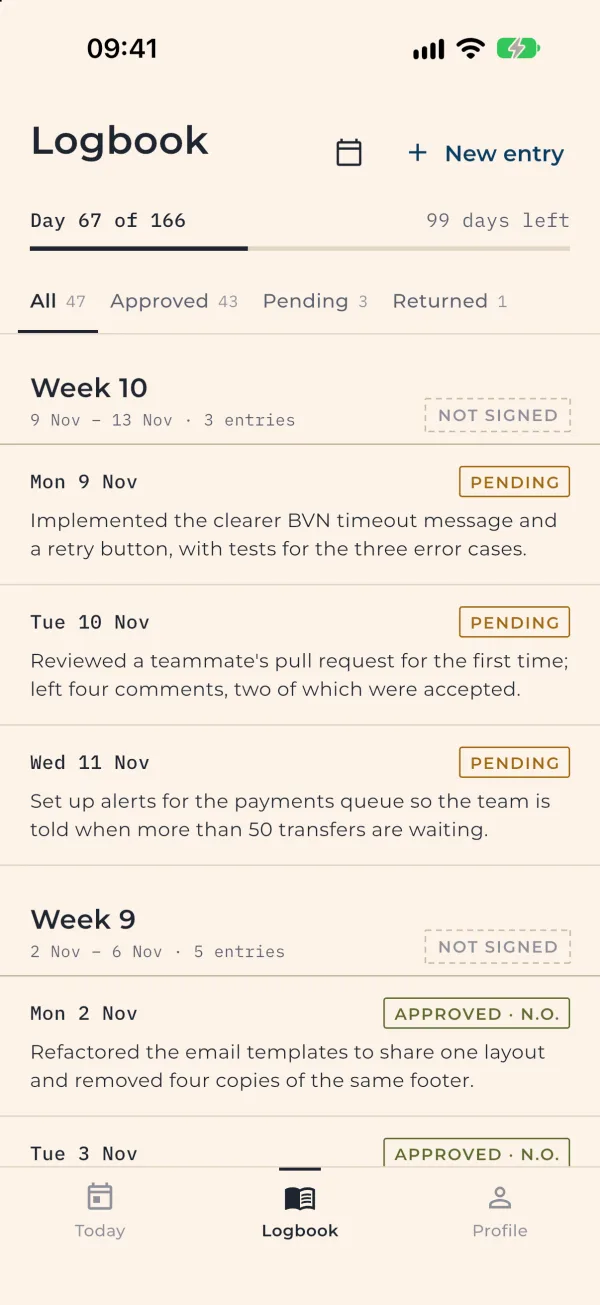
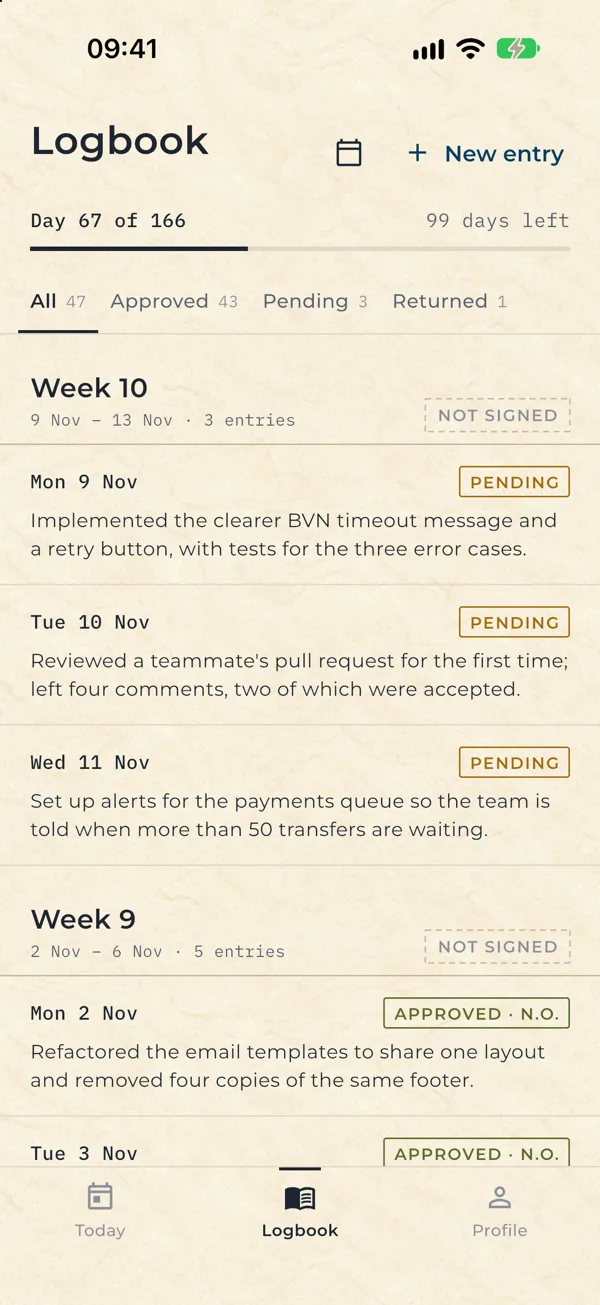
Draw every page on handmade paper
The flat cream background read too much like Lodgix. Pages now sit on the
same handmade paper texture as mofiyinebo.com, tiled at its own size.

- Each route wraps its page in OnPaper, so a page sliding in covers the
  one under it. The theme's page transitions do this for MaterialPageRoute,
  and the hand-built PageRouteBuilder routes wrap their pages themselves.
- Scaffolds and app bars are transparent, with dark status bar icons.
- The bottom bar and pinned bottom actions show the paper through; bottom
  sheets are drawn on it too.
- Palette.paper is now the texture's average colour, for dialogs and
  pickers that stay flat.
- README screenshots retaken.

diff --git a/lib/theme/app_theme.dart b/lib/theme/app_theme.dart
@@ -1,8 +1,9 @@
 import 'package:flutter/material.dart';
+import 'package:flutter/services.dart';
 import 'package:google_fonts/google_fonts.dart';
 import 'package:siwes360/theme/tokens.dart';
 
-/// The app's only theme. Flat paper: no elevation, no shadows, hairline rules.
+/// The app's only theme. Handmade paper: no elevation, no shadows, hairline rules.
 ThemeData buildAppTheme() {
   final text = GoogleFonts.montserratTextTheme().apply(bodyColor: Palette.ink, displayColor: Palette.ink);
   const controlShape = RoundedRectangleBorder(borderRadius: BorderRadius.all(Radius.circular(Radii.control)));
@@ -14,7 +15,8 @@ ThemeData buildAppTheme() {
   return ThemeData(
     useMaterial3: true,
     brightness: Brightness.light,
-    scaffoldBackgroundColor: Palette.paper,
+    // Pages are drawn on the paper texture by their route (see [OnPaper]).
+    scaffoldBackgroundColor: Colors.transparent,
     canvasColor: Palette.paper,
     textTheme: text,
     colorScheme: const ColorScheme.light(
@@ -35,7 +37,10 @@ ThemeData buildAppTheme() {
     dividerTheme: const DividerThemeData(color: Palette.rule, thickness: 1, space: 1),
     iconTheme: const IconThemeData(color: Palette.inkSoft, size: 22),
     appBarTheme: AppBarTheme(
-      backgroundColor: Palette.paper,
+      backgroundColor: Colors.transparent,
+      surfaceTintColor: Colors.transparent,
+      // A see-through bar would otherwise get white status bar icons.
+      systemOverlayStyle: SystemUiOverlayStyle.dark,
       foregroundColor: Palette.ink,
       elevation: 0,
       scrolledUnderElevation: 0,
@@ -138,9 +143,27 @@ ThemeData buildAppTheme() {
     ),
     pageTransitionsTheme: const PageTransitionsTheme(
       builders: {
-        TargetPlatform.iOS: CupertinoPageTransitionsBuilder(),
-        TargetPlatform.android: FadeForwardsPageTransitionsBuilder(),
+        TargetPlatform.iOS: _PaperCupertinoTransitions(),
+        TargetPlatform.android: _PaperFadeForwardsTransitions(),
       },
     ),
   );
+}
+
+class _PaperCupertinoTransitions extends CupertinoPageTransitionsBuilder {
+  const _PaperCupertinoTransitions();
+
+  @override
+  Widget buildTransitions<T>(PageRoute<T> route, BuildContext context, Animation<double> animation,
+          Animation<double> secondaryAnimation, Widget child) =>
+      super.buildTransitions(route, context, animation, secondaryAnimation, OnPaper(child: child));
+}
+
+class _PaperFadeForwardsTransitions extends FadeForwardsPageTransitionsBuilder {
+  const _PaperFadeForwardsTransitions();
+
+  @override
+  Widget buildTransitions<T>(PageRoute<T>? route, BuildContext? context, Animation<double> animation,
+          Animation<double> secondaryAnimation, Widget child) =>
+      super.buildTransitions(route, context, animation, secondaryAnimation, OnPaper(child: child));
 }

diff --git a/lib/theme/tokens.dart b/lib/theme/tokens.dart
@@ -3,15 +3,16 @@ import 'package:google_fonts/google_fonts.dart';
 
 /// Every colour, type size, space and corner radius the app uses.
 ///
-/// The look is a filled-in paper logbook: cream paper, thin rules between rows,
+/// The look is a filled-in paper logbook: handmade paper, thin rules between rows,
 /// statuses as small office stamps, and IBM Plex Mono wherever a value reads like
 /// something written into a form (dates, matric numbers, day counts).
 class Palette {
   Palette._();
 
-  // Paper and ink.
-  static const paper = Color(0xFFFCF2E8);
-  static const sheet = Color(0xFFFFF9F1); // inputs, sheets, the raised strip of a row
+  // Paper and ink. Pages sit on the handmade paper texture ([OnPaper]); [paper]
+  // is its average colour, for surfaces that can't show it (dialogs, pickers).
+  static const paper = Color(0xFFF7EFDB);
+  static const sheet = Color(0xFFFBF7EF); // inputs, the raised strip of a row
   static const ink = Color(0xFF1E2530);
   static const inkSoft = Color(0xFF5A6070);
   static const inkFaint = Color(0xFF8E909A);
@@ -26,6 +27,30 @@ class Palette {
   static const olive = Color(0xFF5B6A2C); // approved, signed, logging
   static const ochre = Color(0xFFA06A12); // pending, waiting
   static const brick = Color(0xFFA03F2A); // returned, behind, errors
+}
+
+/// The handmade paper every page is drawn on, tiled at its own size
+/// (about 512 points wide).
+const paperTexture = BoxDecoration(
+  color: Palette.paper,
+  image: DecorationImage(
+    image: AssetImage('assets/images/handmade-paper.jpg'),
+    repeat: ImageRepeat.repeat,
+    fit: BoxFit.none,
+    scale: 3,
+    alignment: Alignment.topLeft,
+  ),
+);
+
+/// Puts a page on the paper texture. Every route wraps its page in this, so a
+/// page sliding in covers the one under it instead of showing it through.
+class OnPaper extends StatelessWidget {
+  const OnPaper({super.key, required this.child});
+
+  final Widget child;
+
+  @override
+  Widget build(BuildContext context) => DecoratedBox(decoration: paperTexture, child: child);
 }
 
 /// Five type sizes (Txt, not Type, to keep clear of dart:core's Type). Montserrat for words, IBM Plex Mono for form values.

diff --git a/lib/utils/custom_page_route.dart b/lib/utils/custom_page_route.dart
@@ -1,4 +1,5 @@
 import 'package:flutter/material.dart';
+import 'package:siwes360/theme/tokens.dart';
 
 /// Custom page route with smooth fade transition
 class FadePageRoute<T> extends PageRouteBuilder<T> {
@@ -6,7 +7,7 @@ class FadePageRoute<T> extends PageRouteBuilder<T> {
 
   FadePageRoute({required this.page})
     : super(
-        pageBuilder: (context, animation, secondaryAnimation) => page,
+        pageBuilder: (context, animation, secondaryAnimation) => OnPaper(child: page),
         transitionsBuilder: (context, animation, secondaryAnimation, child) {
           return FadeTransition(opacity: animation, child: child);
         },
@@ -21,7 +22,7 @@ class SlidePageRoute<T> extends PageRouteBuilder<T> {
 
   SlidePageRoute({required this.page})
     : super(
-        pageBuilder: (context, animation, secondaryAnimation) => page,
+        pageBuilder: (context, animation, secondaryAnimation) => OnPaper(child: page),
         transitionsBuilder: (context, animation, secondaryAnimation, child) {
           const begin = Offset(1.0, 0.0);
           const end = Offset.zero;
@@ -48,7 +49,7 @@ class ScalePageRoute<T> extends PageRouteBuilder<T> {
 
   ScalePageRoute({required this.page})
     : super(
-        pageBuilder: (context, animation, secondaryAnimation) => page,
+        pageBuilder: (context, animation, secondaryAnimation) => OnPaper(child: page),
         transitionsBuilder: (context, animation, secondaryAnimation, child) {
           const curve = Curves.easeInOutCubic;
 
@@ -81,7 +82,7 @@ class SlideUpPageRoute<T> extends PageRouteBuilder<T> {
 
   SlideUpPageRoute({required this.page})
     : super(
-        pageBuilder: (context, animation, secondaryAnimation) => page,
+        pageBuilder: (context, animation, secondaryAnimation) => OnPaper(child: page),
         transitionsBuilder: (context, animation, secondaryAnimation, child) {
           const begin = Offset(0.0, 1.0);
           const end = Offset.zero;

diff --git a/lib/widgets/paper.dart b/lib/widgets/paper.dart
@@ -476,7 +476,6 @@ class BottomAction extends StatelessWidget {
   Widget build(BuildContext context) {
     return Container(
       decoration: const BoxDecoration(
-        color: Palette.paper,
         border: Border(top: BorderSide(color: Palette.rule)),
       ),
       padding: const EdgeInsets.fromLTRB(Space.page, Space.md, Space.page, Space.md),
@@ -612,17 +611,21 @@ Future<T?> showPaperSheet<T>(BuildContext context, {required WidgetBuilder build
     context: context,
     isScrollControlled: true,
     useSafeArea: true,
+    backgroundColor: Colors.transparent,
     // The keyboard inset is applied here, around the whole sheet, so the
     // sheet's content can scroll instead of being squeezed below zero height.
-    builder: (context) => Padding(
-      padding: EdgeInsets.only(bottom: MediaQuery.viewInsetsOf(context).bottom),
-      child: Column(
-        mainAxisSize: MainAxisSize.min,
-        children: [
-          const SizedBox(height: Space.sm),
-          Container(width: 36, height: 3, color: Palette.ruleStrong),
-          Flexible(child: builder(context)),
-        ],
+    builder: (context) => DecoratedBox(
+      decoration: paperTexture.copyWith(borderRadius: const BorderRadius.vertical(top: Radius.circular(Radii.control))),
+      child: Padding(
+        padding: EdgeInsets.only(bottom: MediaQuery.viewInsetsOf(context).bottom),
+        child: Column(
+          mainAxisSize: MainAxisSize.min,
+          children: [
+            const SizedBox(height: Space.sm),
+            Container(width: 36, height: 3, color: Palette.ruleStrong),
+            Flexible(child: builder(context)),
+          ],
+        ),
       ),
     ),
   );

diff --git a/lib/utils/role_router.dart b/lib/utils/role_router.dart
@@ -3,6 +3,7 @@ import 'package:siwes360/screens/admin/admin_overview.dart';
 import 'package:siwes360/screens/itf/itf_overview.dart';
 import 'package:siwes360/screens/student/studentDashboard.dart';
 import 'package:siwes360/screens/supervisor/supervisorDashboard.dart';
+import 'package:siwes360/theme/tokens.dart';
 
 class RoleRouter {
   static Widget getHomeScreen(String role) {
@@ -22,7 +23,7 @@ class RoleRouter {
   static void navigateToRoleBasedHome(BuildContext context, String role) {
     Navigator.of(context).pushAndRemoveUntil(
       PageRouteBuilder(
-        pageBuilder: (context, _, _) => getHomeScreen(role),
+        pageBuilder: (context, _, _) => OnPaper(child: getHomeScreen(role)),
         transitionsBuilder: (context, animation, _, child) => FadeTransition(opacity: animation, child: child),
         transitionDuration: const Duration(milliseconds: 250),
       ),

diff --git a/lib/widgets/paper_nav_bar.dart b/lib/widgets/paper_nav_bar.dart
@@ -22,7 +22,7 @@ class PaperNavBar extends StatelessWidget {
     if (index == currentIndex) return;
     Navigator.of(context).pushReplacement(
       PageRouteBuilder(
-        pageBuilder: (context, _, _) => items[index].builder(context),
+        pageBuilder: (context, _, _) => OnPaper(child: items[index].builder(context)),
         transitionDuration: Duration.zero,
         reverseTransitionDuration: Duration.zero,
       ),
@@ -33,7 +33,6 @@ class PaperNavBar extends StatelessWidget {
   Widget build(BuildContext context) {
     return Container(
       decoration: const BoxDecoration(
-        color: Palette.paper,
         border: Border(top: BorderSide(color: Palette.rule)),
       ),
       child: SafeArea(

diff --git a/lib/main.dart b/lib/main.dart
@@ -2,6 +2,7 @@ import 'package:flutter/material.dart';
 import 'package:flutter/services.dart';
 import 'package:hive_flutter/hive_flutter.dart';
 import 'package:siwes360/theme/app_theme.dart';
+import 'package:siwes360/theme/tokens.dart';
 import 'package:siwes360/utils/request.dart';
 import 'package:siwes360/widgets/splash_screen.dart';
 
@@ -25,6 +26,7 @@ class SiwesApp extends StatelessWidget {
       title: 'SIWES360',
       theme: buildAppTheme(),
       home: const SplashScreen(),
+      builder: (context, child) => OnPaper(child: child!),
       debugShowCheckedModeBanner: false,
     );
   }

diff --git a/lib/screens/student/studentDashboard.dart b/lib/screens/student/studentDashboard.dart
@@ -253,7 +253,7 @@ class _StudentDashboardState extends State<StudentDashboard> {
           ),
         LedgerRow(
           onTap: () => Navigator.of(context).pushReplacement(
-            PageRouteBuilder(pageBuilder: (_, _, _) => const StudentLogbook(), transitionDuration: Duration.zero),
+            PageRouteBuilder(pageBuilder: (_, _, _) => const OnPaper(child: StudentLogbook()), transitionDuration: Duration.zero),
           ),
           child: _rowText('All entries', plural(_logs.length, 'entry', 'entries'), mono: true),
         ),

diff --git a/lib/widgets/splash_screen.dart b/lib/widgets/splash_screen.dart
@@ -51,7 +51,7 @@ class _SplashScreenState extends State<SplashScreen> {
     if (!mounted) return;
     Navigator.of(context).pushReplacement(
       PageRouteBuilder(
-        pageBuilder: (context, _, _) => next,
+        pageBuilder: (context, _, _) => OnPaper(child: next),
         transitionsBuilder: (context, animation, _, child) => FadeTransition(opacity: animation, child: child),
         transitionDuration: const Duration(milliseconds: 300),
       ),

diff --git a/README.md b/README.md
@@ -83,7 +83,7 @@ Screens are `StatefulWidget`s. Each one loads its data from the API in `initStat
 
 ### Design system
 
-Every colour, type size, space and radius lives in `lib/theme/tokens.dart`; screens use the components in `lib/widgets/` rather than styling widgets themselves. The look is a filled-in paper logbook: cream paper and thin rules instead of cards, review statuses as small outlined stamps (`APPROVED · N.O.`), a heavier stamp for the weekly sign-off, IBM Plex Mono for dates, matric numbers and counts, muted olive, ochre and brick for status, and navy only for things you can press.
+Every colour, type size, space and radius lives in `lib/theme/tokens.dart`; screens use the components in `lib/widgets/` rather than styling widgets themselves. The look is a filled-in paper logbook: handmade paper (a tiled texture, `assets/images/handmade-paper.jpg`) and thin rules instead of cards, review statuses as small outlined stamps (`APPROVED · N.O.`), a heavier stamp for the weekly sign-off, IBM Plex Mono for dates, matric numbers and counts, muted olive, ochre and brick for status, and navy only for things you can press.
 
 ### Internship weeks
 
